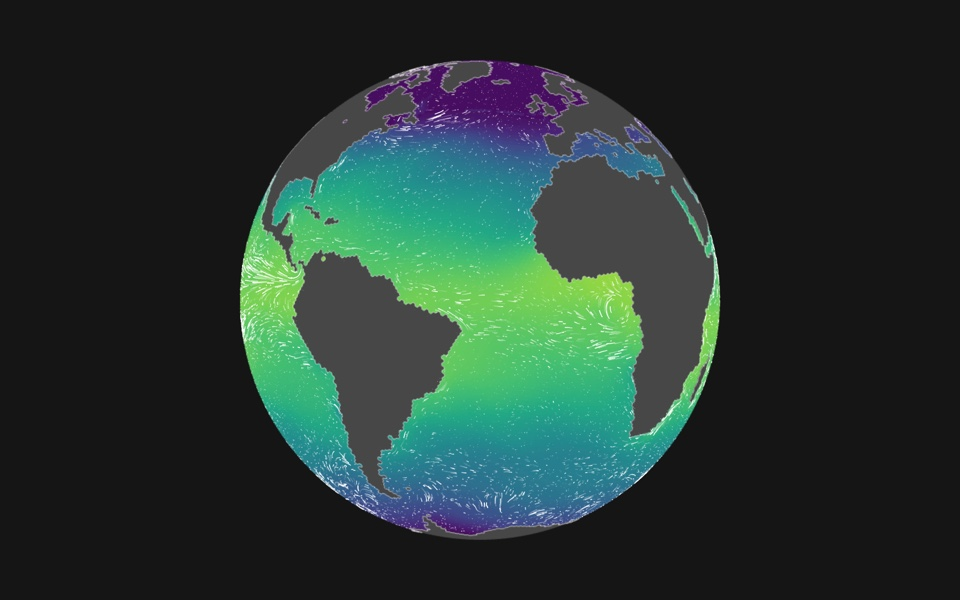
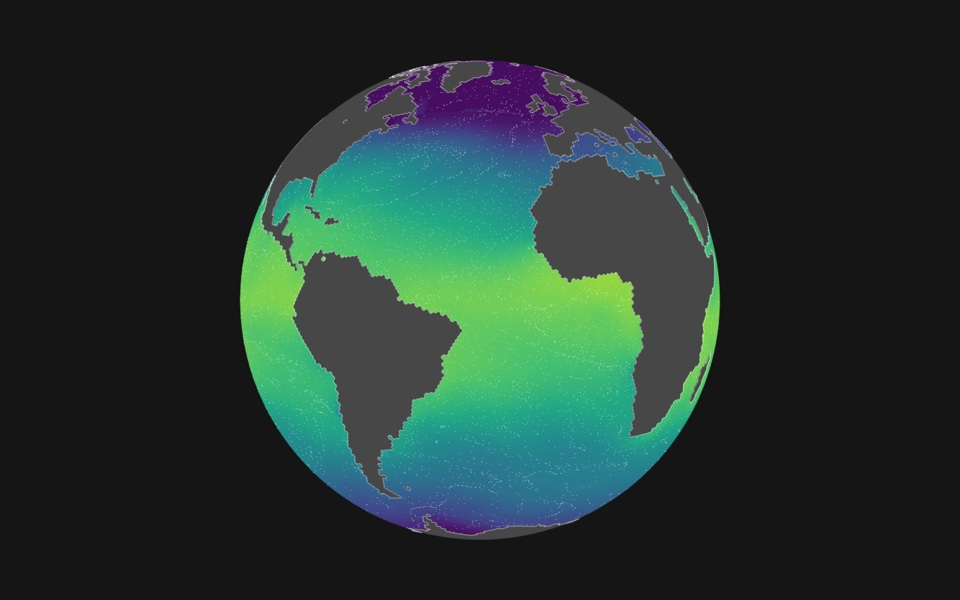
Landing page: retake the jet and ocean tiles with the new particles

diff --git a/index.html b/index.html
@@ -53,9 +53,9 @@
       </div>
     </a>
     <div class="strip">
-      <a href="climate.html?overlay=wind&level=250&animate=arrows&graticule=15&projection=sphere&lat=50&lon=-30&zoom=900"><img src="screenshots/jet.jpg" width="960" height="600" alt="Wind speed at 250 hPa on the globe, with the jet streams as bright bands">Jet streams: wind speed at 250 hPa, with wind vectors and the graticule</a>
+      <a href="climate.html?overlay=wind&level=250&animate=arrows&isobars=off&graticule=15&projection=sphere&lat=50&lon=-30&zoom=900"><img src="screenshots/jet.jpg" width="960" height="600" alt="Wind speed at 250 hPa on the globe, with the jet streams as bright bands">Jet streams: wind speed at 250 hPa, with wind vectors and the graticule</a>
       <a href="climate.html?overlay=mslp&isobars=on&isobarStep=5&animate=none&graticule=off&projection=map"><img src="screenshots/pressure.jpg" width="960" height="600" alt="Sea-level pressure with isobars on an Equal Earth map">Sea-level pressure with isobars on the Equal Earth projection</a>
-      <a href="climate.html?overlay=sst&animate=particles&graticule=off&projection=sphere&lat=0&lon=-30&zoom=200"><img src="screenshots/ocean.jpg" width="960" height="600" alt="Sea surface temperature on the globe with animated ocean current particles">Sea surface temperature with the ocean current animation</a>
+      <a href="climate.html?overlay=sst&animate=particles&isobars=off&graticule=off&projection=sphere&lat=0&lon=-30&zoom=200"><img src="screenshots/ocean.jpg" width="960" height="600" alt="Sea surface temperature on the globe with animated ocean current particles">Sea surface temperature with the ocean current animation</a>
     </div>
 
     <div class="row">
